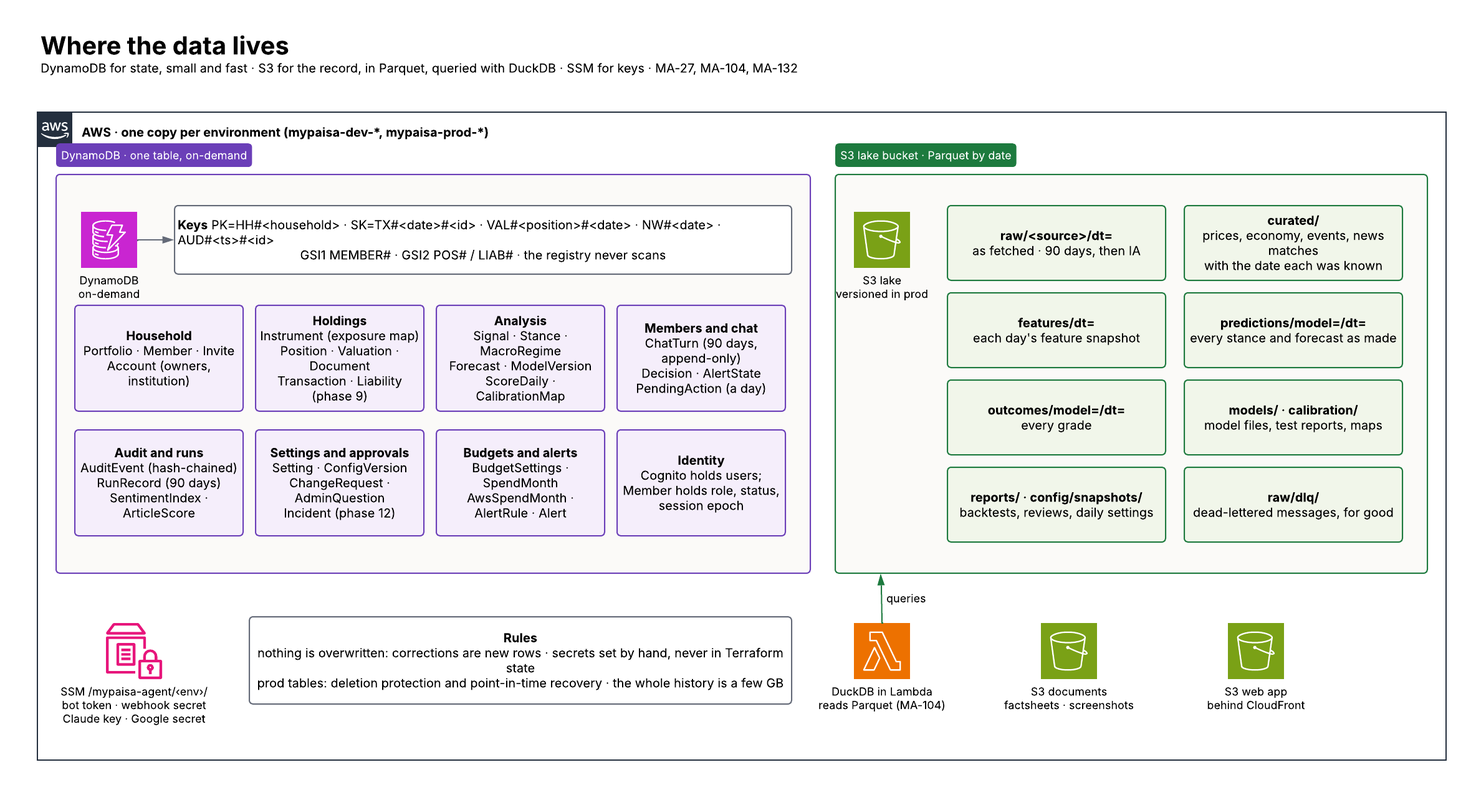
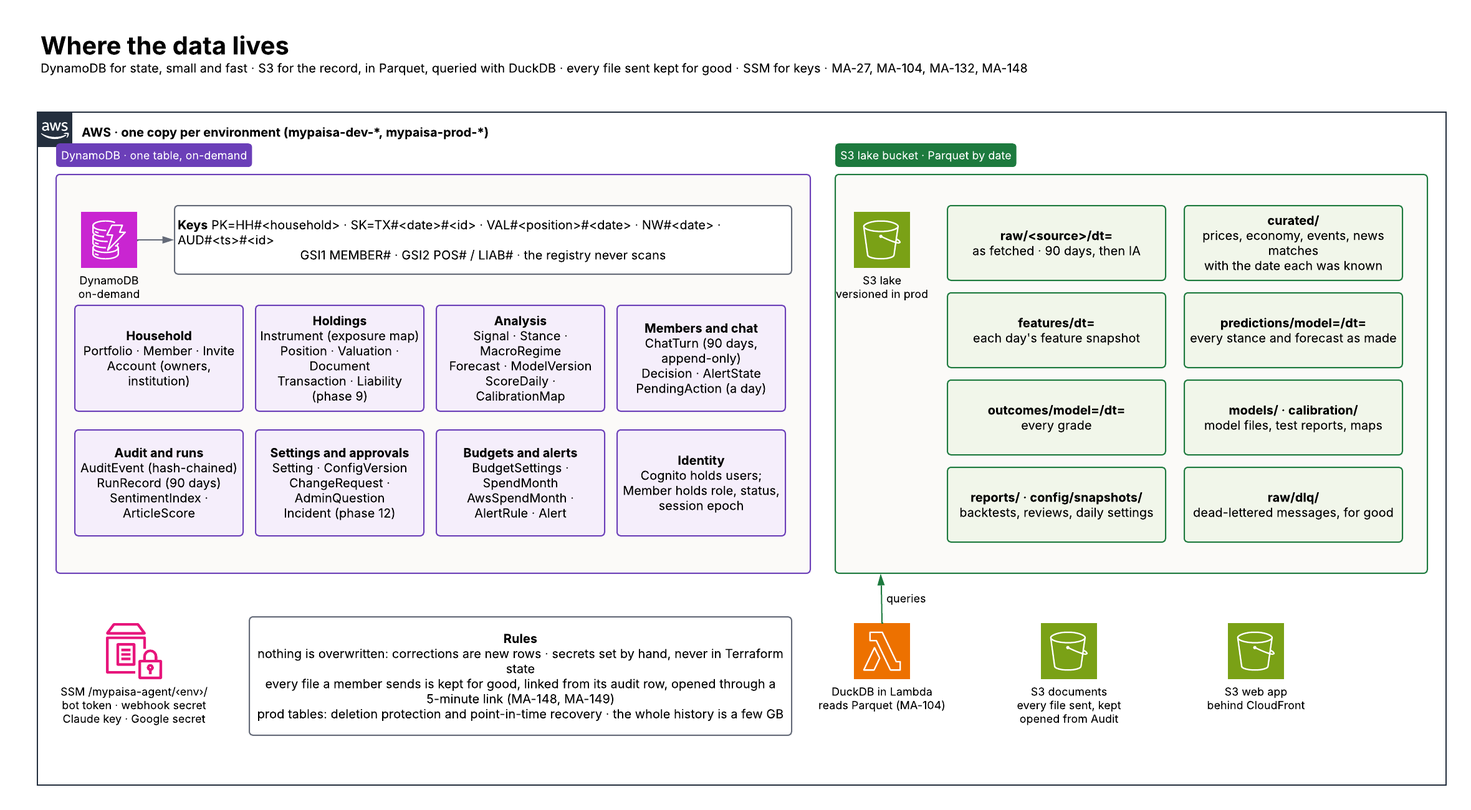
MA-150: Record Indian markets as phase 13 and keep every file a member sends, viewable from the audit log

diff --git a/docs/design/agent-journey.html b/docs/design/agent-journey.html
@@ -811,7 +811,7 @@ footer.foot b { color: var(--mp-ink); }
     <ol class="seq">
       <li class="st mv fm toT" data-lanes="Member to Telegram"><span class="lb">You send the Balanced fund's factsheet PDF (or <code>/add</code> first)</span><span class="ln"></span></li>
       <li class="st mv ft toA" data-lanes="Telegram to AWS"><span class="lb">API Gateway, webhook λ, your lane on the updates queue, then <b>agent λ</b></span><span class="ln"></span></li>
-      <li class="st act inA" data-lanes="AWS"><span class="box"><b>agent λ</b> keeps the file in a private <b>S3</b> bucket with a lifecycle rule and puts a document read on the <b>SQS work</b> queue; <b>worker λ</b> runs the docs job</span></li>
+      <li class="st act inA" data-lanes="AWS"><span class="box"><b>agent λ</b> stores the file for good in the private <b>S3</b> documents bucket, with a <b>Document</b> row and an <u>audit row</u>, and puts a document read on the <b>SQS work</b> queue; <b>worker λ</b> runs the docs job</span></li>
       <li class="st mv fa toC" data-lanes="AWS to Claude"><span class="lb">The PDF and a schema: name, ISIN, charge, allocation, top holdings, benchmark, currency</span><span class="ln"></span></li>
       <li class="st mv fc toA rev" data-lanes="Claude to AWS"><span class="lb">Structured JSON, a citation for each figure and a confidence for each field</span><span class="ln"></span></li>
       <li class="st mv fa toT rev" data-lanes="AWS to Telegram"><span class="lb">A card of what was read, low-confidence fields in amber, with <b>Confirm</b>, <b>Edit</b> and <b>Cancel</b></span><span class="ln"></span></li>
@@ -819,7 +819,7 @@ footer.foot b { color: var(--mp-ink); }
       <li class="st act inA" data-lanes="AWS"><span class="box"><b>Instrument</b> and <b>Document</b> saved in <b>DynamoDB</b>, each with an <span class="sg">audit row</span>; price sources resolved from the ISIN (the Yahoo id, the BlackRock page)</span></li>
       <li class="st mv fa toT rev" data-lanes="AWS to Telegram"><span class="lb"><i>Added. How much do you hold? Send a screenshot or type it.</i></span><span class="ln"></span></li>
       <li class="st mv fm toT" data-lanes="Member to Telegram"><span class="lb">You send a screenshot of the Monzo valuation; the same docs job reads it with Claude</span><span class="ln"></span></li>
-      <li class="st act inA" data-lanes="AWS"><span class="box">After Confirm and the second check: <b>Position</b>, <b>Valuation</b> (source <code>user_screenshot</code>) and <b>Transaction</b>, each with an audit row. The screenshot is deleted after extraction unless you say keep</span></li>
+      <li class="st act inA" data-lanes="AWS"><span class="box">After Confirm and the second check: <b>Position</b>, <b>Valuation</b> (source <code>user_screenshot</code>) and <b>Transaction</b>, each with an audit row that names the screenshot it came from. The screenshot stays in S3 and opens from the Audit page</span></li>
     </ol></div>
   </div></div>
 
@@ -875,7 +875,7 @@ footer.foot b { color: var(--mp-ink); }
     <div class="sgc"><svg class="ic" aria-hidden="true"><use href="#i-alert"/></svg><div><b>Amber when unsure</b><span>Any field Claude is unsure of is shown in amber and asked about.</span></div></div>
     <div class="sgc"><svg class="ic" aria-hidden="true"><use href="#i-doc"/></svg><div><b>A source for every figure</b><span>Extracted figures carry the line they came from. Claude reads; it does not invent a number.</span></div></div>
     <div class="sgc"><svg class="ic" aria-hidden="true"><use href="#i-face"/></svg><div><b>The second check</b><span>Face ID or the PIN after Confirm, then the card edits to "Saved · confirmed with Face ID".</span></div></div>
-    <div class="sgc"><svg class="ic" aria-hidden="true"><use href="#i-eyeoff"/></svg><div><b>Files kept short</b><span>A private bucket with a lifecycle rule; screenshots deleted after extraction unless you say keep.</span></div></div>
+    <div class="sgc"><svg class="ic" aria-hidden="true"><use href="#i-eyeoff"/></svg><div><b>Every file kept, and yours to see</b><span>Each file you send is kept for good in a private, encrypted bucket and opens from the Audit page through a five-minute link, for you and the owner only (MA-148, MA-149).</span></div></div>
     <div class="sgc"><svg class="ic" aria-hidden="true"><use href="#i-shield"/></svg><div><b>A document's words are data</b><span>Text inside a PDF is untrusted and never followed as an instruction; no tool can trade or delete.</span></div></div>
     <div class="sgc"><svg class="ic" aria-hidden="true"><use href="#i-retry"/></svg><div><b>Retries</b><span>The document read is a job on the work queue: five tries with backoff, then a dead-letter queue and an alarm.</span></div></div>
   </div>
@@ -1378,7 +1378,7 @@ footer.foot b { color: var(--mp-ink); }
         <div class="bpage">
           <div class="ptop"><div><p class="over">Read-only</p><p class="ptitle">Audit</p></div><div class="filters"><span class="chip">All members</span><span class="chip">All records</span><span class="chip">This week</span></div></div>
           <div class="group">
-            <div class="row"><span class="lead"><svg class="ic" aria-hidden="true"><use href="#i-doc"/></svg></span><span class="grow"><b>Valuation · update · via screenshot</b><small>You · Fri 23 Oct 20:35 · Balanced: £22,710 → £22,925, source user_screenshot · run 1188</small></span></div>
+            <div class="row"><span class="lead"><svg class="ic" aria-hidden="true"><use href="#i-doc"/></svg></span><span class="grow"><b>Valuation · update · via screenshot</b><small>You · Fri 23 Oct 20:35 · Balanced: £22,710 → £22,925, source user_screenshot · run 1188 · file: monzo-valuation.png, Open</small></span></div>
             <div class="row"><span class="lead"><svg class="ic" aria-hidden="true"><use href="#i-doc"/></svg></span><span class="grow"><b>Transaction · create · via typed</b><small>You · Fri 23 Oct 08:14 · none → bought £200 of Balanced, about 10.8 units · run 1171</small></span></div>
             <div class="row"><span class="lead"><svg class="ic" aria-hidden="true"><use href="#i-user"/></svg></span><span class="grow"><b>Member · create · via button</b><small>Asha · Thu 22 Oct 18:20 · joined by invite as a member · run 1140</small></span></div>
             <div class="row"><span class="lead"><svg class="ic" aria-hidden="true"><use href="#i-key"/></svg></span><span class="grow"><b>Invite · create · via typed</b><small>You · Thu 22 Oct 18:02 · role member, single use, 24 hours · run 1139</small></span></div>

diff --git a/docs/design/market-agent.html b/docs/design/market-agent.html
@@ -755,6 +755,7 @@ footer p { max-width: 90ch; }
         <tr><td>World events</td><td>Daily event counts and tone by country and theme; the geopolitical risk index</td><td>GDELT; the Caldara and Iacoviello GPR index</td><td class="n">Free</td></tr>
         <tr><td>News</td><td>Stories on the holdings, their countries and sectors</td><td>GDELT; the RSS feeds of the brief</td><td class="n">Free</td></tr>
         <tr><td>Calendars</td><td>Central bank decisions, inflation releases, earnings of top holdings, elections</td><td>The banks' and the ONS's published calendars; earnings dates from yfinance</td><td class="n">Free</td></tr>
+        <tr><td>Indian funds and shares (phase 13, MA-147)</td><td>Mutual fund NAVs; NSE and BSE daily candles; INR; India's rates, inflation and foreign flows</td><td>AMFI's daily NAV file, then mfapi.in for history; yfinance <code>.NS</code> and <code>.BO</code>, then the exchanges' bhavcopy; ECB INR; RBI, MOSPI, NSDL</td><td class="n">Free</td></tr>
       </tbody>
     </table>
   </div>

diff --git a/docs/design/lucid/gen_aws_architecture.py b/docs/design/lucid/gen_aws_architecture.py
@@ -278,8 +278,8 @@ pages.append(p)
 
 # ---------------------------------------------------------------- 5 data
 p = Page("p5", "5 Data stores", "Where the data lives",
-         "DynamoDB for state, small and fast · S3 for the record, in Parquet, queried with DuckDB · SSM for keys · MA-27, MA-104, MA-132")
-p.group("cl5", "cloud", 40, 170, 2260, 1040, "AWS · one copy per environment (mypaisa-dev-*, mypaisa-prod-*)")
+         "DynamoDB for state, small and fast · S3 for the record, in Parquet, queried with DuckDB · every file sent kept for good · SSM for keys · MA-27, MA-104, MA-132, MA-148")
+p.group("cl5", "cloud", 40, 170, 2260, 1080, "AWS · one copy per environment (mypaisa-dev-*, mypaisa-prod-*)")
 p.cont("ddbc", 70, 270, 1210, 640, "DynamoDB · one table, on-demand", F_AWS, PURPLE)
 p.icon("ddbi", "ddb", 110, 330, "DynamoDB<br>on-demand")
 p.box("k1", 260, 320, 990, 110, "<b>Keys</b> PK=HH#&lt;household&gt; · SK=TX#&lt;date&gt;#&lt;id&gt; · VAL#&lt;position&gt;#&lt;date&gt; · NW#&lt;date&gt; · AUD#&lt;ts&gt;#&lt;id&gt;<br>GSI1 MEMBER# · GSI2 POS# / LIAB# · the registry never scans", align="left")
@@ -312,10 +312,10 @@ for i, (k, v) in enumerate(prefixes):
     x = 1500 + (i % 2) * 380; y = 320 + (i // 2) * 140
     p.box(f"pf{i}", x, y, 350, 120, f"<b>{k}</b><br>{v}", "#F1F6EA", GREEN)
 p.icon("duck", "lambda", 1350, 990, "DuckDB in Lambda<br>reads Parquet (MA-104)")
-p.icon("docs", "s3", 1650, 990, "S3 documents<br>factsheets · screenshots")
+p.icon("docs", "s3", 1650, 990, "S3 documents<br>every file sent, kept<br>opened from Audit")
 p.icon("web", "s3", 1950, 990, "S3 web app<br>behind CloudFront")
 p.icon("ssm5", "ssm", 150, 990, "SSM /mypaisa-agent/&lt;env&gt;/<br>bot token · webhook secret<br>Claude key · Google secret")
-p.box("rule5", 380, 980, 870, 140, "<b>Rules</b><br>nothing is overwritten: corrections are new rows · secrets set by hand, never in Terraform state<br>prod tables: deletion protection and point-in-time recovery · the whole history is a few GB",
+p.box("rule5", 380, 980, 870, 190, "<b>Rules</b><br>nothing is overwritten: corrections are new rows · secrets set by hand, never in Terraform state<br>every file a member sends is kept for good, linked from its audit row, opened through a 5-minute link (MA-148, MA-149)<br>prod tables: deletion protection and point-in-time recovery · the whole history is a few GB",
       F_NOTE, GREY)
 p.line("ddbi", "k1", "", color=GREY, pa=R, pb=Lf)
 p.line("duck", "lakec", "queries", color=GREEN, pa=T, pb=((1395 - 1320) / 950, 1))
@@ -323,8 +323,8 @@ pages.append(p)
 
 # ---------------------------------------------------------------- 6 market agent and learning loop
 p = Page("p6", "6 Market agent and learning loop", "The market agent: rules engine, Forecaster and the learning loop",
-         "phase 2 rules engine · phase 11 Forecaster (MA-117) · phase 12 learning loop and agents (MA-127) · code decides, Claude explains")
-p.box("m_src", 40, 200, 300, 260, "<b>Free data first</b><br>yfinance · Twelve Data free<br>FRED / ALFRED · BoE · ECB · ONS<br>EIA (oil) · GDELT · GPR index<br>RSS · calendars<br>EODHD only if approved", F_OUT, AMBER)
+         "phase 2 rules engine · phase 11 Forecaster (MA-117) · phase 12 learning loop and agents (MA-127) · phase 13 India (MA-147) · code decides, Claude explains")
+p.box("m_src", 40, 190, 300, 330, "<b>Free data first</b><br>yfinance · Twelve Data free<br>FRED / ALFRED · BoE · ECB · ONS<br>EIA (oil) · GDELT · GPR index<br>RSS · calendars<br><b>India (phase 13)</b>: AMFI NAVs<br>mfapi.in · NSE/BSE bhavcopy<br>RBI · NSDL flows<br>EODHD only if approved", F_OUT, AMBER)
 p.group("cl6", "cloud", 400, 170, 1900, 1340, "AWS · prod")
 p.group("wf", "sfnwf", 440, 230, 1540, 600, "Daily run · Step Functions · retries on every step (phase 12)")
 p.icon("m_steward", "lambda", 500, 320, "data steward<br>failover · gaps · quotas")
@@ -347,7 +347,7 @@ p.icon("m_chal", "lambda", 500, 1290, "tuner<br>challengers: retrain,<br>paramet
 p.box("m_lab", 700, 1270, 420, 150, "<b>Backtest lab</b> (MA-120)<br>ten years, walk-forward with a gap<br>last two years held out<br>then 8 live weeks in shadow", F_NOTE, PURPLE)
 p.icon("m_cr", "ddb", 1270, 1290, "ChangeRequest<br>with scores side by side")
 p.box("m_desk", 1490, 1270, 440, 150, "<b>Admin desk</b><br>Telegram card or Admin center<br>approve with the second check<br>then ModelVersion goes live", F_FAIL, CRIMSON)
-p.box("m_claude", 40, 560, 300, 140, "<b>Claude</b><br>Haiku tags news<br>Sonnet explains<br>never a number", F_OUT, AMBER)
+p.box("m_claude", 40, 580, 300, 140, "<b>Claude</b><br>Haiku tags news<br>Sonnet explains<br>never a number", F_OUT, AMBER)
 p.line("m_src", "m_steward", "", color=AMBER, pa=R, pb=Lf)
 p.line("m_steward", "m_lake", "", pa=R, pb=Lf)
 p.line("m_lake", "m_feat", "", pa=R, pb=Lf)

diff --git a/ARCHITECTURE.md b/ARCHITECTURE.md
@@ -29,8 +29,8 @@ The design is drawn and explained in these places (24 Oct 2026, MA-141):
   | 2 Environments, domains and delivery | [open](https://lucid.app/lucidchart/60bffe0d-133b-489c-ae02-526a987252fc/edit) | §18 |
   | 3 Identity and sign-in | [open](https://lucid.app/lucidchart/9376b624-efcc-4f56-96a9-9a00e9b8fa24/edit) | §4.5 |
   | 4 Queues, retries and replay | [open](https://lucid.app/lucidchart/3077ebaa-b165-4936-933c-d68109de8544/edit) | §21 |
-  | 5 Where the data lives | [open](https://lucid.app/lucidchart/7a201f31-ab98-4e4c-bc00-35c5cd377fd3/edit) | §20.6 |
-  | 6 The market agent and the learning loop | [open](https://lucid.app/lucidchart/55cbf4c8-3603-4346-9a05-bb045b15fa16/edit) | §19 |
+  | 5 Where the data lives | [open](https://lucid.app/lucidchart/a86198f7-d101-4550-9402-3348f08c5eb5/edit) | §20.6 |
+  | 6 The market agent and the learning loop | [open](https://lucid.app/lucidchart/35e7ddc4-3aa4-46bf-b301-dadb0cde0b48/edit) | §19, §22 |
   | 7 The agent team, settings, caps and alerts | [open](https://lucid.app/lucidchart/d8bc9ec7-ef1f-41fd-b372-7b8feea22b1a/edit) | §15.2, §20 |
   | Adding a holding (sequence) | [open](https://lucid.app/lucidchart/06ed33f1-7704-4e57-9d91-baeb317ac271/edit) | §4.2 |
 
@@ -148,7 +148,7 @@ registry is designed so that adding a new kind of thing adds data, not code.
 | **Instrument** | `id`, `kind` (`oeic` · `etf` · `stock` · `bond_etf` · `commodity_etc` · `cash` · later `property` · `deposit` · `policy` · `pension` · `debt`), `name`, `isin`, `sedol?`, `listing?` {MIC, ticker, ccy}, `yahoo_symbol?`, `base_ccy`, `exposure` {regions %, currencies %, asset classes %}, `benchmark?`, `ocf`, `price_sources[]` (ordered chain), `proxy?` (weighted basket), `country?`, `institution?`, `maturity_date?`, `rate?`, `schema_version` | The thing. Identifiers are optional because an OEIC has an ISIN and no ticker, a stock has both, cash has neither, a property has an address and a deposit has a maturity date. |
 | **Position** | `account_id`, `instrument_id`, `units`, `avg_cost_gbp`, `target_weight?`, `protected` (never suggested for trim), `opened_at` | What is held, inside one member's account. The same instrument may sit in two members' accounts; the household view adds them up. |
 | **Valuation** | `instrument_id`, `date`, `price`, `price_ccy`, `fx_to_gbp`, `units`, `value_gbp`, `source` (`nav` · `close` · `proxy` · `user_screenshot` · `user_typed` · `formula`), `provisional` | The time series the wealth tracker reads. User-supplied values are kept alongside computed ones; a gap between them is a signal (wrong units, a fee, a late NAV). |
-| **Document** | `instrument_id`, `type` (`factsheet` · `kiid` · `annual_report` · `screenshot`), `s3_key`, `as_of`, `extracted` (JSON, with the source line for each figure), `confirmed_by_user` | The factsheet is the source of look-through until a better feed exists. |
+| **Document** | `document_id`, `kind` (`factsheet` · `kiid` · `annual_report` · `screenshot` · `cas` · `broker_export` · `spreadsheet` · `other`), `s3_key`, `sha256`, `mime`, `bytes`, `original_name`, `sent_by`, `sent_at`, `message_id`, `instrument_id?`, `import_id?`, `as_of`, `extracted` (JSON, with the source line for each figure), `confirmed_by_user` | **One row for every file a member sends, kept in S3 for good** (§4.6, MA-148). The factsheet is the source of look-through until a better feed exists. |
 | **Transaction** | `position_id` or `liability_id`, `date`, `type` (`buy` · `sell` · `dividend` · `fee` · `interest` · `rent` · `repayment` · `prepayment` · `rate_change` · `maturity`), `units?`, `amount`, `ccy`, `amount_gbp` | The dated cashflow ledger. From "I put £200 in", or extracted from a screenshot. XIRR, payoff curves and the forecast are computed from it, so every money movement is recorded with its date from day one. |
 | **Liability** | `account_id`, `kind` (`mortgage` · `loan` · `card`), `principal`, `rate`, `term_months`, `started_at`, `emi`, `schedule[]` (computed), `ccy` | A debt: the balance against the original plan, the interest and principal split, the payoff date; its events are Transactions. Later, §12. |
 | **NetWorth** | `portfolio_id`, `date`, `assets_gbp`, `debts_gbp`, by member, by category, by currency, by country | Computed daily by the engine from Valuation and Liability; the series the overview and the forecast chart read. Later, §12. |
@@ -169,7 +169,7 @@ registry is designed so that adding a new kind of thing adds data, not code.
 | **SpendMonth** | `portfolio_id`, `cycle` (its start date), `total_usd`, `by_member{}`, `by_feature{}`, `by_agent{}`, `by_model{}`, `by_day{}`, `step` | The running meter for one cycle, added to atomically after every model call and read before every call (§15.1). |
 | **SentimentIndex**, **ArticleScore**, **WebhookSeen** | per portfolio or global | |
 | **PendingAction** | `member_id`, `kind` (`log_transaction` · `add_holding` · `update_valuation` · `settings` · `confirm`), `step`, `collected` (the answers so far), `message_id`, `expires_at` (24 h) | The state of a guided flow: what the bot is waiting for from this member. The next message or tap resumes it; expiry clears it. |
-| **AuditEvent** | `portfolio_id`, `ts`, `seq`, `actor` (a member id, or `system:ingest`, `system:engine`, `system:migration`), `via` (`typed` · `button` · `screenshot` · `factsheet` · `agent_proposal` · `schedule` · `migration`), `entity`, `entity_id`, `action` (`create` · `update` · `delete` · `confirm` · `reject`), `before`, `after`, `run_id`, `prev_hash`, `hash` | Append-only, one row per change to the records, written in the same transaction as the change. Hash-chained like the calls ledger, so a missing or edited row shows. See §4.6. |
+| **AuditEvent** | `portfolio_id`, `ts`, `seq`, `actor` (a member id, or `system:ingest`, `system:engine`, `system:migration`), `via` (`typed` · `button` · `screenshot` · `factsheet` · `cas` · `broker_export` · `agent_proposal` · `schedule` · `migration`), `document_id?` (the file a change came from), `entity`, `entity_id`, `action` (`create` · `update` · `delete` · `confirm` · `reject`), `before`, `after`, `run_id`, `prev_hash`, `hash` | Append-only, one row per change to the records, written in the same transaction as the change. Hash-chained like the calls ledger, so a missing or edited row shows. See §4.6. |
 | **RunRecord** | `run_id`, `function`, `trigger` (`message` · `callback` · `schedule:<name>` · `alarm`), `member_id?`, `started_at`, `finished_at`, `status`, `model_calls[]` (model, input, output and cached tokens, cost, ms), `tool_calls[]` (name, ms, ok, error), `messages_sent`, `outcome`, `error?` | What one run of any Lambda did and cost. 90-day TTL. The web app's Activity page and the cost guard rails read these. See §10. |
 
 Signals and macro regimes are per instrument and shared by everyone who holds
@@ -343,6 +343,22 @@ rows are readable in two places: the Audit page of the web app, with filters
 by member, record and date, and from the chat with a question such as "what
 changed this week?", which the agent answers through `get_audit`. Rows are
 never deleted; at a few hundred a year they cost nothing to keep.
+
+**Every file is kept, and opens from the log** (Arun, 24 Oct 2026: "all
+the files and images I send should be stored on S3 and I should be able to
+view that in audit logs"). Every file or image a member sends (a factsheet,
+a screenshot, a CAS statement, a broker export, a spreadsheet) is copied to
+`s3://mypaisa-<env>-documents/<household>/<member>/<yyyy>/<mm>/` before
+anything reads it, whatever happens next, with a `Document` row and an audit
+row of its own; every change made from it carries its `document_id`
+(MA-148). Nothing is deleted after reading: the bucket has no expiry rule,
+and prod's is versioned and protected from destruction. On the Audit page a
+row made from a file shows its kind, name and size, a thumbnail for an
+image, and Open; a Files view lists every file with the changes it fed
+(MA-149). Open is a presigned link valid five minutes, given only after the
+authorizer checks the role: a member opens their own files, the owner any,
+a viewer none; each opening is itself an audit row. In the chat a change
+card's Source button sends the original back.
 
 ---
 
@@ -744,7 +760,8 @@ The pages, all read-only:
   Household / Me / member switch from §4.5. Two columns at laptop width.
 - **Audit**: the audit log of §4.6, newest first, filtered by member, record
   and date; each row shows before and after and links to the run that made
-  it.
+  it, and a row made from a file opens that file; a **Files** view lists every
+  file sent (MA-149).
 - **Activity**: what the agent and the jobs did (§10). Each run with its
   trigger, the model calls and their tokens and cost, the tools it called
   and how long they took, what it sent, and any error; a board of the
@@ -887,9 +904,11 @@ maintains, so nothing is shown that cannot be changed from the chat.
 
 As v1 (no keys, IAM in Terraform, OIDC pinned to this repository's ids,
 webhook secret, chat allowlist, dedupe, untrusted text), plus: uploaded
-documents stay in a private bucket with a lifecycle rule; extracted figures
-carry their source line; screenshots are deleted after extraction unless you
-say keep; privacy mode hides pounds in every card and in the Mini App; the
+every file a member sends is kept for good in a private, encrypted bucket
+and opens only through five-minute links after a role check (§4.6, MA-148,
+MA-149); extracted figures carry their source line, and extracted records
+never keep a PAN, an address or an account number; a protected PDF's
+password is never stored; privacy mode hides pounds in every card and in the Mini App; the
 Mini App serves nothing without a valid, recent `initData` signature.
 
 The web app adds: identity is Cognito's, one pool per environment (§4.5). The
@@ -1100,6 +1119,8 @@ a daily digest instead.
 | Decision | Choice | Reason |
 | --- | --- | --- |
 | Engine | Port the desk's maths, rewrite its cascade | The maths is sound and self-tested; the cascade is for traders |
+| Files | Every file a member sends kept in S3 for good, with a `Document` row, linked from the audit log and opened from the Audit page (MA-148, MA-149) | Arun, 24 Oct 2026: "all the files and images I send should be stored on S3 and I should be able to view that in audit logs"; replaces deleting screenshots after extraction |
+| Indian markets | Phase 13 (§22, MA-147): AMFI, mfapi.in, yfinance `.NS`/`.BO` and the bhavcopy, free first; the existing portfolio imported from a CAS or a broker export | Arun's Indian mutual funds and shares, to be fed later |
 | Research cards | Toolbelt shapes, fund-first content | Same skeleton reads well; funds need different questions |
 | Orchestration | One tool loop + a two-call debate, not an agent graph | One household; cost without accuracy otherwise |
 | Ingestion | Factsheet PDF + screenshot through Claude, Confirm before save | The only path a layman will actually use |
@@ -1271,7 +1292,7 @@ tracker's data is mapped (MA-105).
 
 ![The market agent and the learning loop, Lucid page 6](docs/design/lucid/06-market-agent.png)
 
-Page 6: free data in, the rules engine and the Forecaster side by side, calibration, the card, and the daily learning loop of §20.4 below them. [Open it in Lucid](https://lucid.app/lucidchart/55cbf4c8-3603-4346-9a05-bb045b15fa16/edit).
+Page 6: free data in, the rules engine and the Forecaster side by side, calibration, the card, and the daily learning loop of §20.4 below them. [Open it in Lucid](https://lucid.app/lucidchart/35e7ddc4-3aa4-46bf-b301-dadb0cde0b48/edit).
 Arun, 24 Oct 2026 (MA-117): "My target is to minimize loss and grow money
 over time steadily ... another agent which will give really predictive
 recommendation side by side with the one you are building ... I want this
@@ -1604,7 +1625,7 @@ man's switch, the nightly drift check (MA-108) and the Lambda rollback
 
 ![Where the data lives, Lucid page 5](docs/design/lucid/05-data.png)
 
-Page 5: the one DynamoDB table and its entity groups, the S3 lake and its prefixes, DuckDB, the documents and web buckets, and SSM. [Open it in Lucid](https://lucid.app/lucidchart/7a201f31-ab98-4e4c-bc00-35c5cd377fd3/edit).
+Page 5: the one DynamoDB table and its entity groups, the S3 lake and its prefixes, DuckDB, the documents and web buckets, and SSM. [Open it in Lucid](https://lucid.app/lucidchart/a86198f7-d101-4550-9402-3348f08c5eb5/edit).
 **S3**, the record, in the `mypaisa-<env>-lake` bucket, versioned, in
 Parquet, queried with DuckDB:
 
@@ -1742,3 +1763,86 @@ as requests too. Dev's queue triggers are switched off while dev's schedules
 are, so the expected cost is nothing to about a dollar a month, measured in
 the first month and inside the AWS cap of §15.2. The dead-letter alarms cost
 a few pence each beyond CloudWatch's ten free alarms.
+
+---
+
+## 22. Indian markets: shares, ETFs and mutual funds (phase 13, later)
+
+Arun, 24 Oct 2026 (MA-147): "If later I want to add Indian market in the mix
+will it work? ... I also have some existing portfolio of MF and stock in
+India market which I will feed later." It works without changing the core:
+currency, country and the kind of holding are data (§4), every feed is a
+plugin in a chain (§5.1), and the INR view is already planned (phase 9).
+India adds plugins, two kinds, account types, a macro basket and an
+importer.
+
+### 22.1 Sources, free first (IN1, MA-151)
+
+| Holding | First (free) | Fallback (free) | Paid, only on the admin's approval |
+| --- | --- | --- | --- |
+| Indian mutual funds | AMFI's daily NAV file for every scheme, the official industry source, matched by AMFI scheme code and ISIN | mfapi.in (free JSON with each scheme's full NAV history; community-run, so a fallback and the history source, not the record); a screenshot | none needed |
+| NSE and BSE shares and ETFs | yfinance with `.NS`, then `.BO` tickers: daily candles and ten years of history | The exchanges' own bhavcopy end-of-day files, free to download for personal use; stale last | Twelve Data's Grow plan ($79 a month; its free tier has no NSE or BSE); Zerodha Kite Connect at ₹500 a month with history, if the member has a Zerodha account |
+| Look-through of funds | The fund houses' monthly portfolio disclosures, which SEBI requires | The factsheet | none |
+| INR exchange rate | The ECB's daily reference rate (it includes INR) | The RBI/FBIL reference rate | none |
+| Economy and stress | RBI's database (policy rate, yields), MOSPI's inflation, India VIX, NSDL's daily foreign portfolio investor flows | FRED's India series | none |
+| News and events | Economic Times, Mint and Business Standard by RSS; NSE company announcements; GDELT's India coverage | none | none |
+
+Two new kinds: `in_mutual_fund`, one NAV a day and no candles, like a UK
+OEIC; and `in_listed`, an NSE or BSE share or ETF with daily candles. NSE
+and BSE close at 15:30 IST (10:00 or 11:00 UK time) and AMFI's NAVs arrive
+by the UK evening, so the jobs run on the work queue after those times and
+the 07:15 brief carries India's previous day. NSE's trading holidays come
+from the exchange's calendar.
+
+### 22.2 The existing Indian portfolio, imported once (IN2, MA-152)
+
+| What the member holds | The file to send | What it gives |
+| --- | --- | --- |
+| Mutual funds, every fund house | The detailed Consolidated Account Statement (CAS) PDF from CAMS, KFintech or MF Central | Every folio and scheme, units, and every purchase, SIP, switch and redemption since inception, so cost and XIRR are right from day one |
+| Shares, ETFs and funds in demat | The NSDL or CDSL CAS, or the broker's holdings and tradebook export (for example Zerodha Console's CSV) | Holdings and quantities by ISIN, and the trades from the tradebook |
+| Anything else | A screenshot or a typed line | One holding at a time, as for the UK funds |
+
+The files are parsed by code (an open-source CAS parser, pinned and tested
+on synthetic statements); Claude reads only a file the parsers cannot. Each
+holding is matched by ISIN: a fund to its AMFI scheme code, a share or ETF
+to its `.NS` or `.BO` listing; anything unmatched is listed, never guessed.
+The import has the Excel importer's safety (§18.5, MA-111): a dry run, one
+summary card, fingerprints so the same statement never adds twice, Confirm
+with the second check, rollback by import id, and an audit row per change
+that names the file it came from. The file itself is kept in S3 like every
+other (§4.6, MA-148). A protected PDF's password is typed once into the
+Mini App, used in memory and never stored, logged or sent; or the member
+sends an unlocked copy. The records never keep the PAN, the address or an
+account number, though the file is kept as sent.
+
+### 22.3 Accounts, currency and suggestions (IN3, MA-153)
+
+New account types `demat`, `mf_folio`, `nre` and `nro` (and `ppf`, `nps`,
+`elss` if one is held), each with country `IN` and currency INR. Every
+Indian figure shows in INR with its GBP value beside it; the household
+total is in the base currency with the INR view one tap away (MA-94).
+Privacy mode hides rupees as it hides pounds. "ISA-safe" becomes
+"wrapper-aware": a suggestion names only actions that suit the account it is
+about, and the bot still never trades. For a UK resident many Indian funds
+are not UK "reporting funds", so gains may be taxed differently; the bot
+flags those holdings in plain words and says to check with a tax adviser.
+It never gives tax advice. The cards and pages are designed first.
+
+### 22.4 The engine and the Forecaster (IN4, MA-154)
+
+An India basket joins the UK, EU and US ones in the macro pillar (§6.2):
+the Nifty 50 against Indian government bonds, India VIX, the rupee against
+the dollar, foreign portfolio investor flows and the RBI's policy rate. The
+news scout reads the Indian feeds, and the exposure maps come from the fund
+houses' monthly disclosures. The calendars add the RBI's policy dates,
+India's inflation releases, NSE holidays and results season. The Forecaster
+(§19) and its lab take the Indian holdings on the same terms: nothing is
+shown until its gates are passed.
+
+### 22.5 Cost and order
+
+On the free path India costs nothing beyond a few more jobs a day inside the
+free tiers. A paid feed is a request to the admin with its price, counted
+inside the £50 cap (§15.2). IN1 comes first; IN2 needs IN1, the Excel
+importer (MA-111) and file keeping (MA-148); IN3 needs both; IN4 needs IN1
+and, for the Forecaster, phase 11.

diff --git a/PLAN.md b/PLAN.md
@@ -108,6 +108,9 @@ What you hold, recorded through the chat, with no analysis yet.
 - The audit log from day one: an `AuditEvent` row in the same transaction
   as every record change, hash-chained; `get_audit` and "what changed this
   week?" in the chat.
+- Every file and image a member sends kept in S3 for good, before anything
+  reads it, with a `Document` row and an audit row; every change made from a
+  file names it (MA-148).
 - Observability from the first Lambda: a `RunRecord` per run with model
   calls, tokens, cost and tool calls; Powertools Logger, Tracer and Metrics
   wired in the handler base; the error alarm per function to the chat.
@@ -283,7 +286,8 @@ browser, as `ARCHITECTURE.md` §9.3.
   laptop width, and the login page), as `docs/design/README.md` describes;
   the MyPaisa DS v1 "Warm ledger" look (MA-101), lightweight-charts.
 - Two new pages: **Audit** (the §4.6 log, filtered by member, record and
-  date, before and after, a link to the run) and **Activity** (the §10 runs
+  date, before and after, a link to the run, and the file behind a change
+  opened through a five-minute link, with a Files view, MA-149) and **Activity** (the §10 runs
   with their model calls, tokens, cost, tools and outcome; the schedule
   board with last and next run and price freshness; this month's spend
   against the ceiling and the step it is on; the last seven days of alarms).
@@ -576,6 +580,41 @@ DynamoDB items sit in their free tiers at this volume.
 
 ---
 
+## Phase 13 — Indian markets and the existing Indian portfolio (later)
+
+`ARCHITECTURE.md` §22, epic MA-147. Indian mutual funds, NSE and BSE shares
+and ETFs beside the UK holdings, free sources first, and the household's
+existing Indian portfolio loaded once with its whole history.
+
+- **IN1, Indian prices (MA-151).** The `amfi`, `mfapi` and `bhavcopy`
+  plugins; yfinance with `.NS` and `.BO`; the kinds `in_mutual_fund` and
+  `in_listed`; INR from the ECB with the RBI/FBIL rate behind it; NSE's
+  holiday calendar; jobs after the Indian close.
+- **IN2, the import (MA-152).** The detailed CAS from CAMS, KFintech or MF
+  Central, the NSDL or CDSL CAS, and a broker's holdings and tradebook
+  export; parsed in code, matched by ISIN, a dry run, one summary card,
+  Confirm with the second check, rollback by import id; every file kept
+  (MA-148); no PAN, address or account number in any record.
+- **IN3, accounts and views (MA-153).** `demat`, `mf_folio`, `nre`, `nro`;
+  INR with GBP beside it; wrapper-aware suggestions; the reporting-fund tax
+  flag; designed first.
+- **IN4, the engine and the Forecaster (MA-154).** The India basket, Indian
+  news and disclosures, the RBI's calendar; the Forecaster's gates as in
+  phase 11.
+
+**Tests:** synthetic CAS statements and broker exports import exactly once;
+an unmatched ISIN is listed, not guessed; each Indian chain falls through to
+stale; INR and GBP views agree with the FX of the day; golden tests for the
+India basket.
+
+**Exit:** a member sends their CAS and broker export, taps Confirm once, and
+the Indian holdings with their history appear in the brief and the web app
+in INR and GBP, with the files they came from open from the Audit page.
+
+**Cost:** £0 on the free path; a paid feed only on the admin's approval.
+
+---
+
 ## Reverse-engineering workbook
 
 What is ported from where, so the work can be checked against the original.
@@ -613,6 +652,7 @@ What is ported from where, so the work can be checked against the original.
 | 10 New kinds of holding | a day or two each | When a new kind is added |
 | 11 The Forecaster | 8–12 weeks | F1 and F2 any time after phase 2; the rest after phase 7, when wanted |
 | 12 The agent team | 6–8 weeks | E1 and E2 after phase 5; the rest with phases 6 and 11, when wanted |
+| 13 Indian markets and the Indian portfolio | 3–4 weeks | IN1 after phase 2; IN2 after phase 1's importer; IN4's forecasts with phase 11, when wanted |
 
 ---
 

diff --git a/TECH_STACK.md b/TECH_STACK.md
@@ -54,7 +54,7 @@ AWS views and a sequence, linked and embedded in `ARCHITECTURE.md`
 | Cognito | One user pool per environment, Essentials plan, on `auth-dev.mypaisapp.com` and `auth.mypaisapp.com`; custom-auth triggers for Telegram, Google as a provider, passkeys; free under 10,000 monthly users |
 | EventBridge Scheduler | 07:00, 07:15, 21:00, 21:15 on weekdays; 23:30 daily; 08:00 Saturday; every 3 h for news; all in `Europe/London` |
 | DynamoDB | One on-demand table per environment; TTL on chat turns, webhook dedupe, article scores |
-| S3 | Prices and FX as parquet; documents (private, lifecycle rule); articles (90-day rule); charts (30-day rule) |
+| S3 | Prices and FX as parquet; documents: every file a member sends, kept for good (private, encrypted, versioned in prod, no expiry rule), opened from the Audit page through five-minute presigned links (MA-148, MA-149); articles (90-day rule); charts (30-day rule) |
 | ECR | The container image, one repository, lifecycle rule keeping the last ten |
 | SSM Parameter Store | SecureString, standard tier, one path per environment (`/mypaisa-agent/dev/...`, `/mypaisa-agent/prod/...`): bot token, webhook secret, the Anthropic API key, Twelve Data and EODHD keys, the Google OAuth client secret; values put by hand, Terraform creates the parameters and ignores their values |
 | CloudFront + S3 | The web app on its own bucket and distribution per environment, `console-dev.mypaisapp.com` and `console.mypaisapp.com`; the shell is public and holds no data |
@@ -94,6 +94,11 @@ AWS views and a sequence, linked and embedded in `ARCHITECTURE.md`
 | US Energy Information Administration (EIA) | Free | Daily Brent and WTI (the Forecaster) |
 | GDELT and the geopolitical risk index | Free | World events and their tone by country and theme (the Forecaster) |
 | Fund manager pages (BlackRock, Vanguard) | Free | UK fund prices and holdings files when a feed misses a fund |
+| AMFI daily NAV file (phase 13) | Free | Every Indian mutual fund's NAV each day, by scheme code and ISIN (`ARCHITECTURE.md` §22) |
+| mfapi.in (phase 13) | Free, community-run | Each Indian scheme's full NAV history; the fallback behind AMFI |
+| NSE and BSE bhavcopy (phase 13) | Free for personal use | End-of-day prices for Indian shares and ETFs when yfinance's `.NS`/`.BO` miss |
+| RBI database, MOSPI, NSDL (phase 13) | Free | India's rates, yields and inflation as first published; daily foreign portfolio flows |
+| Zerodha Kite Connect (phase 13) | ₹500 a month, not chosen | Broker-grade Indian prices and history, only on the admin's approval if the free chain fails |
 | Marketaux | About $29 a month, not chosen | Fallback for per-company news sentiment if Claude Haiku's tagging falls short |
 
 ---
